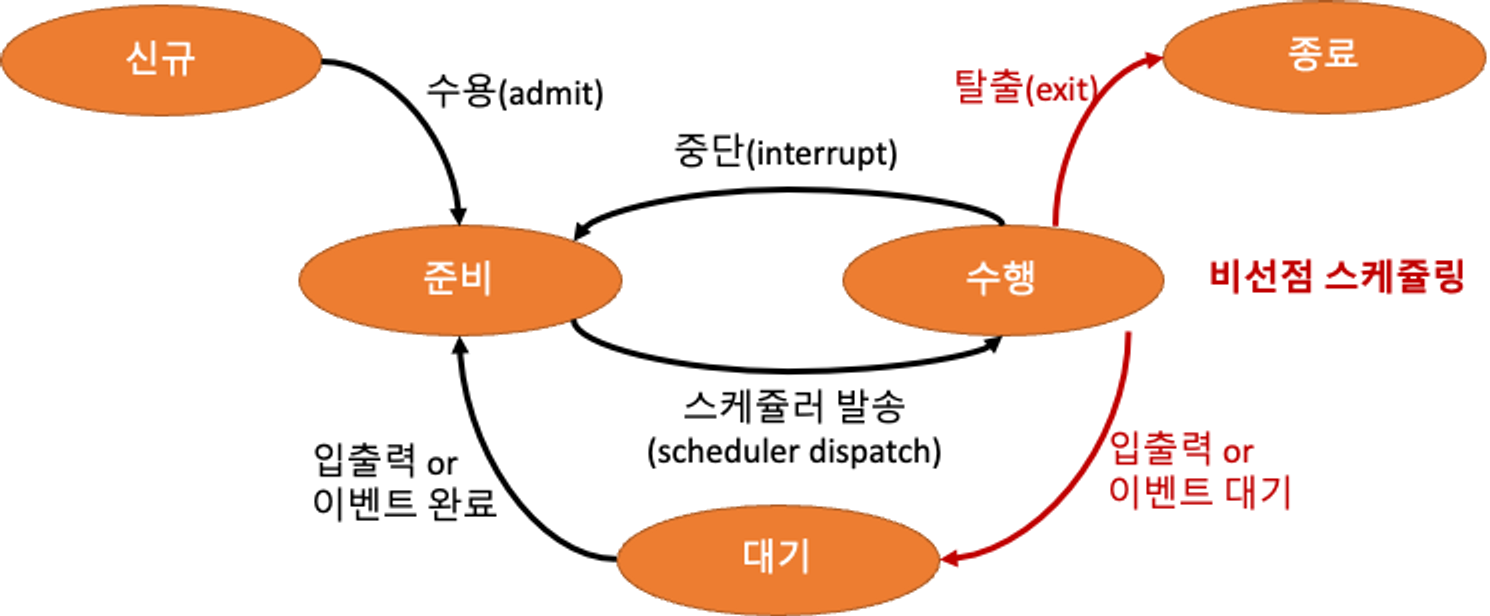
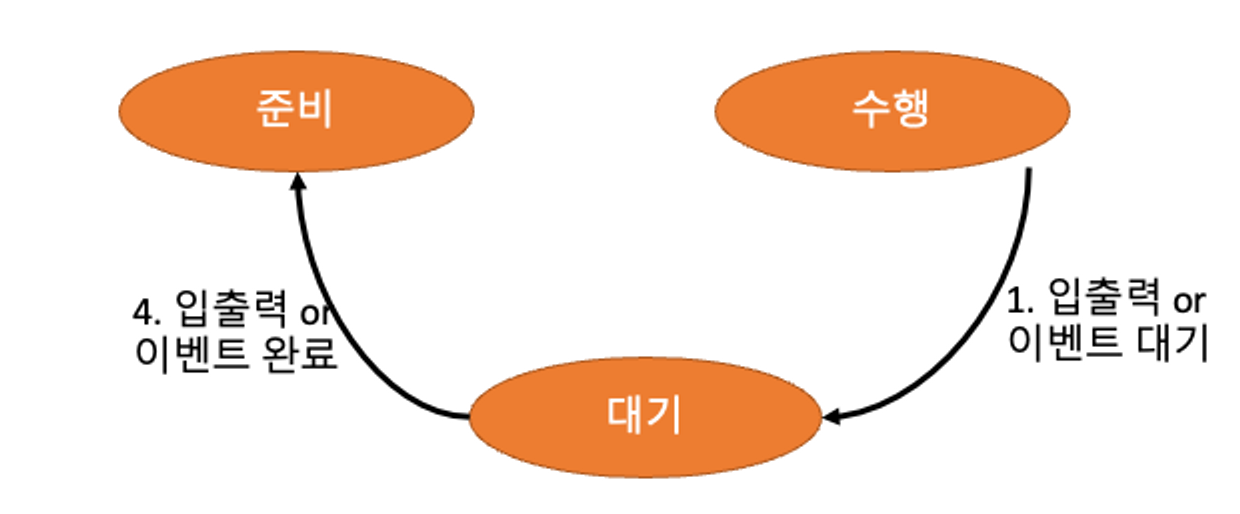
GITBOOK-25: change request with no subject merged in GitBook

diff --git a/document/ComputerScience/CPUAndMemory.md b/document/ComputerScience/CPUAndMemory.md
@@ -4,7 +4,7 @@
 
 컴퓨터에서 처리를 담당하는 “중앙 처리 장치”. 계산을 잘하지만 다른 지능적인 행위를 하지 못한다.
 
-![](<../../.gitbook/assets/image (1) (1).png>)
+![](<../../.gitbook/assets/image (1) (1) (1).png>)
 
 ### Arithmetic Logic Unit(ALU)
 
@@ -172,7 +172,7 @@ graph LR
 
 **I/O Burst**: I/O작업이 끝날때까지 Block되는 구간
 
-<figure><img src="../../.gitbook/assets/image (1) (1) (1).png" alt=""><figcaption></figcaption></figure>
+<figure><img src="../../.gitbook/assets/image (1) (1) (1) (1).png" alt=""><figcaption></figcaption></figure>
 
 ### 스케쥴링 평가 기준
 
@@ -290,19 +290,19 @@ CPU 버스트 타임이 가장 짦은, **최단작업을 우선** 스케쥴링
 3. 수행 -> 준비 (Running-> Ready) : 인터럽트가 발생했을때
 4. 대기 -> 준비 (Waiting -> Ready) : I/O가 완료되었을때
 
-<figure><img src="../../.gitbook/assets/image (2).png" alt=""><figcaption></figcaption></figure>
+<figure><img src="../../.gitbook/assets/image (2) (1).png" alt=""><figcaption></figcaption></figure>
 
 
 
 #### 선점 스케쥴링 발생 시점
 
-<figure><img src="../../.gitbook/assets/image (4).png" alt=""><figcaption></figcaption></figure>
+<figure><img src="../../.gitbook/assets/image (4) (1).png" alt=""><figcaption></figcaption></figure>
 
 
 
 #### 비선점 스케쥴링 발생 시점
 
-<figure><img src="../../.gitbook/assets/image (3).png" alt=""><figcaption></figcaption></figure>
+<figure><img src="../../.gitbook/assets/image (3) (1).png" alt=""><figcaption></figcaption></figure>
 
 
 
@@ -458,25 +458,308 @@ CPU가 데이터를 요청하여 캐시 메모리에 접근했을 때 캐시 메
 
 
 
+## 프로세스 생명주기
+
+### 신규 상태(New)
+
+* 프로세스를 메인 메모리에 가져온 상태
+* 신규 상태 —> **수용(admit)** —> 준비상태
+
+<figure><img src="../../.gitbook/assets/image.png" alt=""><figcaption></figcaption></figure>
+
+
+
+### 준비 상태(Ready)
+
+준비 작업을 마치고 실행할 수 있는 상태
+
+준비 상태 —> **스케쥴러 발송(scheduler dispatch)** —> 수행 상태
+
+* 준비 상태가 되는 경우
+  * **신규** 프로세스에서 수용됨
+  * **대기** 프로세스에서 입출력/이벤트가 완료됨
+  * **수행** 프로세스가 중단됨
+
+<figure><img src="../../.gitbook/assets/image (1).png" alt=""><figcaption></figcaption></figure>
+
+
+
+### 수행 상태(Running)
+
+CPU가 실제로 프로세스를 수행하고 있는 상태
+
+* 선점 스케쥴링에 의한 중단 → **준비** 상태로
+* 입출력/이벤트가 필요 시 → **대기** 상태로
+* 수행 완료 시 → **종료** 상태
+
+<figure><img src="../../.gitbook/assets/image (2).png" alt=""><figcaption></figcaption></figure>
+
+### 대기 상태(**Waiting)**
+
+프로세스 도중에 I/O 작업이 필요하여 I/O 작업을 수행하는 상태
+
+CPU는 I/O를 기다리고, 다른 프로세스 작업을 수행할 수 있다
+
+* 대기 상태 종료 시 → 준비 상태로
+
+<figure><img src="../../.gitbook/assets/image (3).png" alt=""><figcaption></figcaption></figure>
+
+
+
+### 종료 상태(Terminated)
+
+프로세스가 종료된 상태
+
+사용하던 메모리 영역이 해제
+
+수행 상태 —> **탈출(exit)** —> 종료 상태
+
+
+
+<figure><img src="../../.gitbook/assets/image (4).png" alt=""><figcaption></figcaption></figure>
+
+
+
+## 대기 큐(Waiting Queue)
+
+<figure><img src="../../.gitbook/assets/image (5).png" alt=""><figcaption></figcaption></figure>
+
+{% embed url="https://gusdnd852.tistory.com/82" %}
+
+### 1. Job Queue
+
+HDD에서 프로그램을 메모리에 올릴 때 메모리가 꽉차면 대기하는 공간
+
+HDD -> \[Job Queue] -> Memory
+
+
+
+### 2. Ready Queue
+
+CPU가 이미 사용 중일 때 메모리에서 올라온 프로세스들이 실행을 위해 대기하는 공간
+
+Memory -> \[Ready Queue] -> CPU
+
+
+
+### 3. Device Queue
+
+입출력 장치를 이용하기 위해 입출력 작업을 기다리는 공간
+
+I/O 장치 큐들을 통틀어 부름
+
+
+
+## 스케줄링
+
+### Job Secheduler
+
+* Job Queue의 프로그램들을 어떤 순서로 메모리에 올릴지 결정
+* 프로그램이 새로 시작될 때, 메모리가 가득 찼을 때
+
+
+
+### CPU Scheduler
+
+* Ready Queue의 프로세스들을 어떤 순서로 서비스 할 것인지(CPU에 올릴 것인지) 결정
+
+
+
+### Device Scheduler
+
+* Device Queue의 프로세스들을 어떤 순서로 I/O 장치를 이용하게 할 것인지 결정
+* I/O Bound Process → 대부분 시간을 I/O에 사용
+* CPU Bound Process → 대부분 시간을 CPU 연산에 사용
+
+
+
+## **Swapping**
+
+오랫동안 동작이 없는 프로세스는 잠시 HDD로 내려놓고, 다른 프로세스를 실행하거나 기존 프로세스에 메모리를 더 할당하는 등 메모리를 더 효율적으로 활용
+
+* **Swap Out:** 메모리 -> HDD로 내리는 작업
+* **Swap In:** HDD -> 메모리로 다시 올리는 작업
+
+
+
+## 문맥 교환 (Context Switching)
+
+### Context Switching
+
+* CPU 시간공유 시스템의 경우 일정 시간이 지나면 기존 프로세스를 **준비** 상태로 만들고 다른 프로세스를 **수행** 상태로 만들어서 실행
+
+### Scheduler
+
+* Context Switching을 전문적으로 담당하는 스케줄러는 위에서 배운 CPU 스케줄러
+* CPU 스케줄러는 Ready Queue에 대기 중인 프로세스를 어떤 순서로 실행시킬 것인지에 대한 스케줄러
+
+### Dispatcher
+
+* 스위치할 때 이 정보들을 보존해야 A의 차례가 돌아왔을 때 이전에 수행하던 작업이 끊기지 않고 수행될 수 있습니다.
+* 다른 프로세스 작업 시 현재 작업의 정보를 임시 저장하고 다시 자신의 작업 차례가 왔을 때 꺼내 씀
+
+
+
+## 프로세스 메모리
+
+<figure><img src="../../.gitbook/assets/image (7).png" alt=""><figcaption></figcaption></figure>
+
+![https://zangzangs.tistory.com/107](https://s3-us-west-2.amazonaws.com/secure.notion-static.com/c7a88adb-1817-40e6-bcf8-c625a1ac0fa3/Untitled.png)
+
+### Code 영역
+
+* **실행할 프로그램의 코드**가 저장
+
+### Data 영역
+
+* **전역변수와 정적변수**가 저장
+* 프로그램이 시작될 때 할당되어 프로그램 종료 시 소멸
+
+### Stack 영역
+
+* 호출된 함수의 수행을 마치고 **복귀할 주소** 및 **데이터**(지역변수, 매개변수, 리턴값 등)를 임시로 저장
+* 함수 호출시 기록하고 함수의 수행이 완료되면 사라진다
+* 컴파일 시 stack 영역의 크기가 결정되기 때문에 무한정 할당 할 수 없다
+
+### Heap 영역
+
+* **동적 데이터 영역**
+* 메모리 주소 값에 의해서만 참조되고 사용되는 영역
+* 런타임 시에 결정
+
+
+
+## 커널
+
+* 커널은 대부분의 운영 체제(OS)의 주요 구성 요소이며 **컴퓨터 하드웨어와 프로세스**를 잇는 핵심 **인터페이스**
+* 메모리 관리, 프로세스 관리, 하드웨어와 프로세스 사이에서 명령을 즉시 실행할 수 있는(인터프리터) 역할을 수행하거나 시스템의 호출이나 보안등의 기능을 수행
+
+### Code 영역
+
+* 시스템 콜, 중단(인터럽트) 처리 코드
+* CPU, 메모리 등 자원 관리를 위한 코드
+* 편리한 인터페이스 제공을 위한 코드
+
+### Data 영역
+
+* CPU, Memory 등 하드웨어 자원을 관리하기 위한 자료구조가 저장
+* **PCB(Process Controll Block)**
+  * 현재 수행 중인 프로세스의 상태, CPU 사용 정보 등을 유지하기 위한 자료구조
+  * 운영체제에서 프로세스에 대한 모든 정보를 저장하는 데이터 구조
+
+### Stack 영역
+
+* 각 Process의 커널 스택을 저장
+* 프로세스는 함수 호출시 자신의 복귀 주소를 저장하지만, 커널은 커널 내의 주소가 된다.
+* 각각의 프로세스마다 별도의 스택을 두어 관리
 
 
 
 
 
+## 스레드
+
+### 프로세스
+
+* 자신만의 고유 공간 자원을 할당 받음
+* 메모리에서의 실행중인 프로그램 단위
+* 다른 프로세스의 변수나 자료에 접근할 수 없다
+* 운영체제로부터 시스템 자원을 할당받는 자원의 단위
+* 최소 1개 이상의 스레드를 가짐
+
+### 스레드
+
+* 다른 프로세스와 공간, 자원을 공유하면서 사용됨
+* 프로세스에 작업을 처리하는 주체
+* 스레드는 Stack 을 제외한 Code/Data/Heap 부분은 공유해 서로 읽고 쓸 수 있음
 
 
 
+#### 스레드 장점
+
+* 프로세스 보다 크기가 작은 실행 단위 구현
+* 프로세스의 생성 및 소멸에 따른 오버헤드 감소
+* 쓰레드간 자원을 공유 함으로써 빠른 컨텍스트 스위칭
+* 프로세스 들의 통신 시간, 방법 어려움 해소
+
+### 멀티 스레드
+
+{% hint style="info" %}
+💡 **멀티 프로세스 :** 하나의 운영체제 안에서 여러 프로세스가 실행되는 것
+
+**멀티 쓰레드 :** 하나의 프로세스가 여러 작업을 여러 쓰레드를 사용해 동시에 처리하는 것
+{% endhint %}
+
+### 멀티 프로세스
+
+* 하나의 프로그램을 여러 프로세스로 구성
+* 여러 프로세스 중 하나에 문제가 발생하도 다른 프로세스에 영향을 주지 않음
+* 문맥 전환 과정에서 오버헤드 발생
+* 프로세스 간 통신을 위해 IPC 필요
+* 프로세스 간 공유하는 메모리가 없음
+
+### 멀티 스레드
+
+* 하나의 프로그램을 여러 개의 스레드로 구성
+* 시스템 자원 소모 감소
+* 시스템 처리량 감소
 
 
 
+🟢 **멀티 쓰레드의 장점**
+
+1. Context-Switching 할 때 공유하고 있는 메모리만큼 **메모리 자원을 아낄 수 있다.**
+2. 쓰레드는 프로세스 내의 Stack 영역을 제외한 모든 메모리를 공유하기 때문에 **통신 부담이 적어서 응답 시간이 빠르다.**
 
 
 
+**🔴 멀티 쓰레드의 단점**
+
+1. 쓰레드 하나가 프로세스 내 자원을 망쳐버린다면 **모든 프로세스가 종료될 수 있다.**
+2. 자원을 공유하기 때문에 필연적으로 **동기화 문제**⚠가 발생할 수 밖에 없다. 교착상태가 발생하지 않도록 주의해야 한다.
+3. 디버깅이 까다롭다
 
 
 
+### 스레드 풀
+
+컴퓨터 프로그램에서 실행의 동시성을 달성하기 위한 소프트웨어 디자인 패턴
+
+* 프로그램이 작업을 동시에 실행할 수 있도록 여러 스레드를 미리 생성해두고 유지 관리
+* 작업 처리에 사용되는 쓰레드를 제한된 개수만큼 정해 놓고 작업 큐(Queue)에 들어오는 작업들을 하나씩 쓰레드가 맡아 처리하는 것
 
 
+
+#### 스레드 풀 사용 이유
+
+1. **프로그램 성능 저하를 방지하기 위해**
+   1. 쓰레드를 생성/수거하는 데 따른 부담은 프로그램 전체적인 퍼포먼스를 저하하기 때문
+2. **다수의 사용자 요청을 처리하기 위해**
+   1. 다수의 사용자의 요청을 수용하고, 빠르게 처리하고 대응
+
+#### 스레드 풀 장점
+
+* 쓰레드를 생성/수거하는데 비용이 들지 않는다
+* 쓰레드가 생성될 때 OS가 메모리 공간을 확보해주고 메모리를 쓰레드에게 할당
+* 쓰레드 풀을 미리 만들어 두기 때문에 처음에 생성하는 비용은 들지만 이전의 쓰레드를 재사용할 수 있으므로 시스템 자원을 줄일 수 있음.
+* 작업을 요청 시 이미 쓰레드가 대기 중인 상태이기 때문에 작업을 실행하는 데 딜레이가 발생하지 않습니다.
+
+#### 스레드 풀 단점
+
+* 스레드 풀에 스레드를 너무 많이 생성해 두었다가 사용하지 않으면 메모리 낭비가 발생합니다.
+* 스레드 풀의 단점 개선 : **Fork Join Thread Pool**
+
+
+
+### 동시성 병렬성
+
+#### 동시성
+
+싱글 코어에서 멀티 스레드를 동작시키기 위한 방식으로 멀티 태스킹을 위해 여러 개의 스레드가 번갈아가면서 실행되는 성질
+
+#### 병렬성
+
+멀티 코어에서 멀티 스레드를 동작시키는 방식으로, 한 개 이상의 스레드를 포함하는 각 코어들이 동시에 실행되는 성질
 
 
 

diff --git a/books/LawsOfUX/LawsOfUX.md b/books/LawsOfUX/LawsOfUX.md
@@ -145,7 +145,7 @@ $$
 
 리모컨은 단순해지고, 버튼 수는 줄어들었다.
 
-![](<../../.gitbook/assets/image (1).png>)
+![](<../../.gitbook/assets/image (1) (1).png>)
 
 
 
@@ -361,7 +361,7 @@ _시각적 요소: 색상, 형태, 크기, 위치, 움직임 등_
 * 텍스트에밑줄을 그어 링크임을 표시
 * 화면에서 상호작용이 필요한 부분에만 제한적으로강조 색상을 사용하여 행동 유도
 
-![](../../.gitbook/assets/image.png)
+![](<../../.gitbook/assets/image (9).png>)
 
 
 
